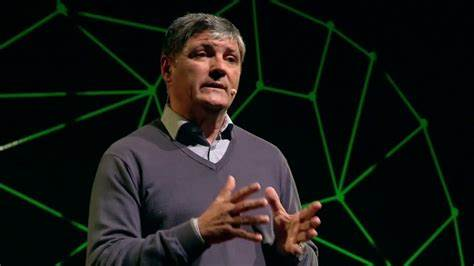
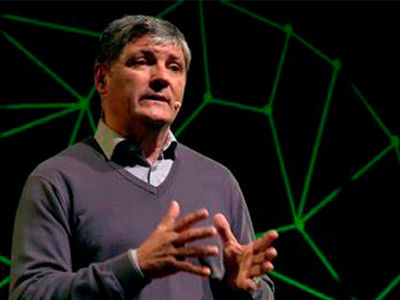
Cambio de imagenes en tamaños

diff --git a/pages/eventos.html b/pages/eventos.html
@@ -73,7 +73,7 @@
                                     <div class="card-body">
                                     <h5 class="card-title">CHARLA CON TONI NADAL</h5>
                                     <p class="card-text">Some quick example text to build on the card title and make up the bulk of the card's content.</p>
-                                    <a href="#" class="btn btn-primary">Ver más</a>
+                                    <a href="./registro.html" class="consultar"><b>VER MÁS</b></a>
                                     </div>
                                 </div>
                             </div>
@@ -83,7 +83,7 @@
                                     <div class="card-body">
                                     <h5 class="card-title">SEGUNDO TORNEO</h5>
                                     <p class="card-text">Some quick example text to build on the card title and make up the bulk of the card's content.</p>
-                                    <a href="#" class="btn btn-primary">Ver más</a>
+                                    <a href="./registro.html" class="consultar"><b>VER MÁS</b></a>
                                     </div> 
                                 </div>
                             </div>
@@ -96,7 +96,7 @@
                                     <div class="card-body">
                                     <h5 class="card-title">CLASES GRATIS</h5>
                                     <p class="card-text">Some quick example text to build on the card title and make up the bulk of the card's content.</p>
-                                    <a href="#" class="btn btn-primary">Ver más</a>
+                                    <a href="./registro.html" class="consultar"><b>VER MÁS</b></a>
                                     </div>
                                 </div>
                             </div>
@@ -106,7 +106,7 @@
                                     <div class="card-body">
                                     <h5 class="card-title">SEGUNDO TORNEO</h5>
                                     <p class="card-text">Some quick example text to build on the card title and make up the bulk of the card's content.</p>
-                                    <a href="#" class="btn btn-primary">Ver más</a>
+                                    <a href="./registro.html" class="consultar"><b>VER MÁS</b></a>
                                     </div> 
                                 </div>
                             </div>
@@ -115,32 +115,30 @@
             </section>
         </main>
 <!--footer-->
-        <footer>
-            <section class="footer-area">
-                <div class="container">
-                    <div class="row mb-3">
-                            <div class="contact-footer col">
-                                    <h4>Contacto</h4>
-                                    <p>TEL: 04362830</p>
-                                    <p>Email: contato@armonia.com.uy</p>
-                            </div>
-                            <div class="mapa-armonia col">
-                                <map name="mapa de armonia"><iframe src="https://www.google.com/maps/embed?pb=!1m18!1m12!1m3!1d3287.7827492018578!2d-56.32866200000004!3d-34.508391599999996!2m3!1f0!2f0!3f0!3m2!1i1024!2i768!4f13.1!3m3!1m2!1s0x95a1b157ae231c87%3A0xac30713784a250d5!2sArmon%C3%ADa%20Tennis%20Club!5e0!3m2!1ses!2suy!4v1681091907484!5m2!1ses!2suy" width="200" height="200" style="border:0;" allowfullscreen="" loading="lazy" referrerpolicy="no-referrer-when-downgrade"></iframe></map>
-                            </div>
-                            <div class="rrss-footer col">
-                                <h4>Redes Sociales</h4>
-                                <a href="https://www.facebook.com/ArmoniaTennisClub">
-                                <img class="logo-rrss" src="../assets/icons8-facebook.svg" alt="instagram">
-                                </a>
-                                <a href="https://www.instagram.com/armonia_tennis/">
-                                <img class="logo-rrss" src="../assets/icons8-instagram.svg" alt="instagram">
-                                </a>
-                            </div>
+            <footer>
+                <section class="footer-area">
+                    <div class="container text-center">
+                        <div class="row row-cols-1 row-cols-md-1 row-cols-lg-3 row-cols-xxl-3">
+                                <div class="contact-footer col">
+                                        <h4>Contacto</h4>
+                                        <p>TEL: 04362830</p>
+                                        <p>Email: contato@armonia.com.uy</p>
+                                </div>
+                                <div class="contact-footer col">
+                                    <map name="mapa de armonia"><iframe src="https://www.google.com/maps/embed?pb=!1m18!1m12!1m3!1d3287.7827492018578!2d-56.32866200000004!3d-34.508391599999996!2m3!1f0!2f0!3f0!3m2!1i1024!2i768!4f13.1!3m3!1m2!1s0x95a1b157ae231c87%3A0xac30713784a250d5!2sArmon%C3%ADa%20Tennis%20Club!5e0!3m2!1ses!2suy!4v1681091907484!5m2!1ses!2suy" width="100%" height="100%" style="border: 3px;;" allowfullscreen="" loading="lazy" referrerpolicy="no-referrer-when-downgrade"></iframe></map>
+                                </div>
+                                
+                                <div class="contact-footer col">
+                                    <h4>Redes Sociales</h4>
+                                        <div class="logo-rrss">
+                                            <a href="https://www.facebook.com/ArmoniaTennisClub"><img src="../assets/icons8-facebook.svg" alt="instagram"></a>
+                                            <a href="https://www.instagram.com/armonia_tennis/"> <img src="../assets/icons8-instagram.svg" alt="instagram"></a>
+                                        </div>
+                                </div>
+                        </div>
                     </div>
-                </div>
-            </section>
-    </footer>
-
+                </section>
+            </footer>
     <script src="https://cdn.jsdelivr.net/npm/bootstrap@5.3.0-alpha3/dist/js/bootstrap.bundle.min.js" integrity="sha384-ENjdO4Dr2bkBIFxQpeoTz1HIcje39Wm4jDKdf19U8gI4ddQ3GYNS7NTKfAdVQSZe" crossorigin="anonymous"></script>
     </body>
 </html>

diff --git a/pages/tienda.html b/pages/tienda.html
@@ -64,7 +64,7 @@
     <section>
         <div class="container">
             <div class="productos row mb-3">
-                <div class="cards-productos col">
+                <div class="cards-productos col-3 col-sm-3 col-md-2 col-lg-1">
                     <img src="../assets/producto.jpg" alt="">
                     <h3>RACKETA NUEVA</h3>
                         <p>Lorem ipsum dolor sit amet consectetur adipisicing elit.</p>
@@ -72,7 +72,7 @@
                     <a href="./registro.html" class="consultar"><b>CONSULTAR</b></a>
                 </div>
 
-                <div class="cards-productos col">
+                <div class="cards-productos col-3 col-sm-2 col-md-2 col-lg-1">
                     <img src="../assets/producto.jpg" alt="">
                     <h3>RACKETA NUEVA</h3>
                         <p>Lorem ipsum dolor sit amet consectetur adipisicing elit.</p>
@@ -80,7 +80,28 @@
                     <a href="./registro.html" class="consultar"><b>CONSULTAR</b></a>
                 </div>
 
-                <div class="cards-productos col">
+                <div class="cards-productos col-3 col-sm-2 col-md-2 col-lg-1">
+                    <img src="../assets/producto.jpg" alt="">
+                    <h3>RACKETA NUEVA</h3>
+                        <p>Lorem ipsum dolor sit amet consectetur adipisicing elit.</p>
+                    <h5>PRECIO: $XXXX</h5>
+                    <a href="./registro.html" class="consultar"><b>CONSULTAR</b></a>
+                </div>
+                <div class="cards-productos col-3 col-sm-2 col-md-2 col-lg-1">
+                    <img src="../assets/producto.jpg" alt="">
+                    <h3>RACKETA NUEVA</h3>
+                        <p>Lorem ipsum dolor sit amet consectetur adipisicing elit.</p>
+                    <h5>PRECIO: $XXXX</h5>
+                    <a href="./registro.html" class="consultar"><b>CONSULTAR</b></a>
+                </div>
+                <div class="cards-productos col-3 col-sm-2 col-md-2 col-lg-1">
+                    <img src="../assets/producto.jpg" alt="">
+                    <h3>RACKETA NUEVA</h3>
+                        <p>Lorem ipsum dolor sit amet consectetur adipisicing elit.</p>
+                    <h5>PRECIO: $XXXX</h5>
+                    <a href="./registro.html" class="consultar"><b>CONSULTAR</b></a>
+                </div>
+                <div class="cards-productos col-3 col-sm-2 col-md-2 col-lg-1">
                     <img src="../assets/producto.jpg" alt="">
                     <h3>RACKETA NUEVA</h3>
                         <p>Lorem ipsum dolor sit amet consectetur adipisicing elit.</p>
@@ -141,7 +162,7 @@
 
         </main>
 
-        <!--footer-->
+<!--footer-->
         <footer>
             <section class="footer-area">
                 <div class="container">
@@ -154,7 +175,7 @@
                             <div class="contact-footer col">
                                 <map name="mapa de armonia"><iframe src="https://www.google.com/maps/embed?pb=!1m18!1m12!1m3!1d3287.7827492018578!2d-56.32866200000004!3d-34.508391599999996!2m3!1f0!2f0!3f0!3m2!1i1024!2i768!4f13.1!3m3!1m2!1s0x95a1b157ae231c87%3A0xac30713784a250d5!2sArmon%C3%ADa%20Tennis%20Club!5e0!3m2!1ses!2suy!4v1681091907484!5m2!1ses!2suy" width="100%" height="100%" style="border:0;" allowfullscreen="" loading="lazy" referrerpolicy="no-referrer-when-downgrade"></iframe></map>
                             </div>
-                            
+
                             <div class="contact-footer col">
                                 <h4>Redes Sociales</h4>
                                     <div class="logo-rrss">

diff --git a/css/main.css b/css/main.css
@@ -3,8 +3,6 @@ body{
     width: 100%;
 }
 
-
-
 /* navegador*/
 
 .registro{
@@ -202,9 +200,14 @@ text-align: center;
 }
 
 
+/* Cards de Eventos*/
+.card{
+    text-align: center;
+}
 
-
-
+.card-text{
+    padding: 0px;
+}
 
 
 /*Metodos*/
@@ -302,7 +305,7 @@ padding-left: 70px;
 
 footer{
     background-color: #55775E;
-    padding: 10px;
+    padding-top: 10px;
     width: 100%;
     color: white;
 }
@@ -318,9 +321,7 @@ footer{
 
 .rrss-footer{
     margin: 10px;
-    padding: 20px;
-    
-    
+    padding: 10px;
 }
 
 .mapa-armonia{
@@ -641,3 +642,6 @@ text-align: center;
     margin-top: 5px;
 }
 
+.btn btn-primary{
+    background-color: #FF5F01;
+}
